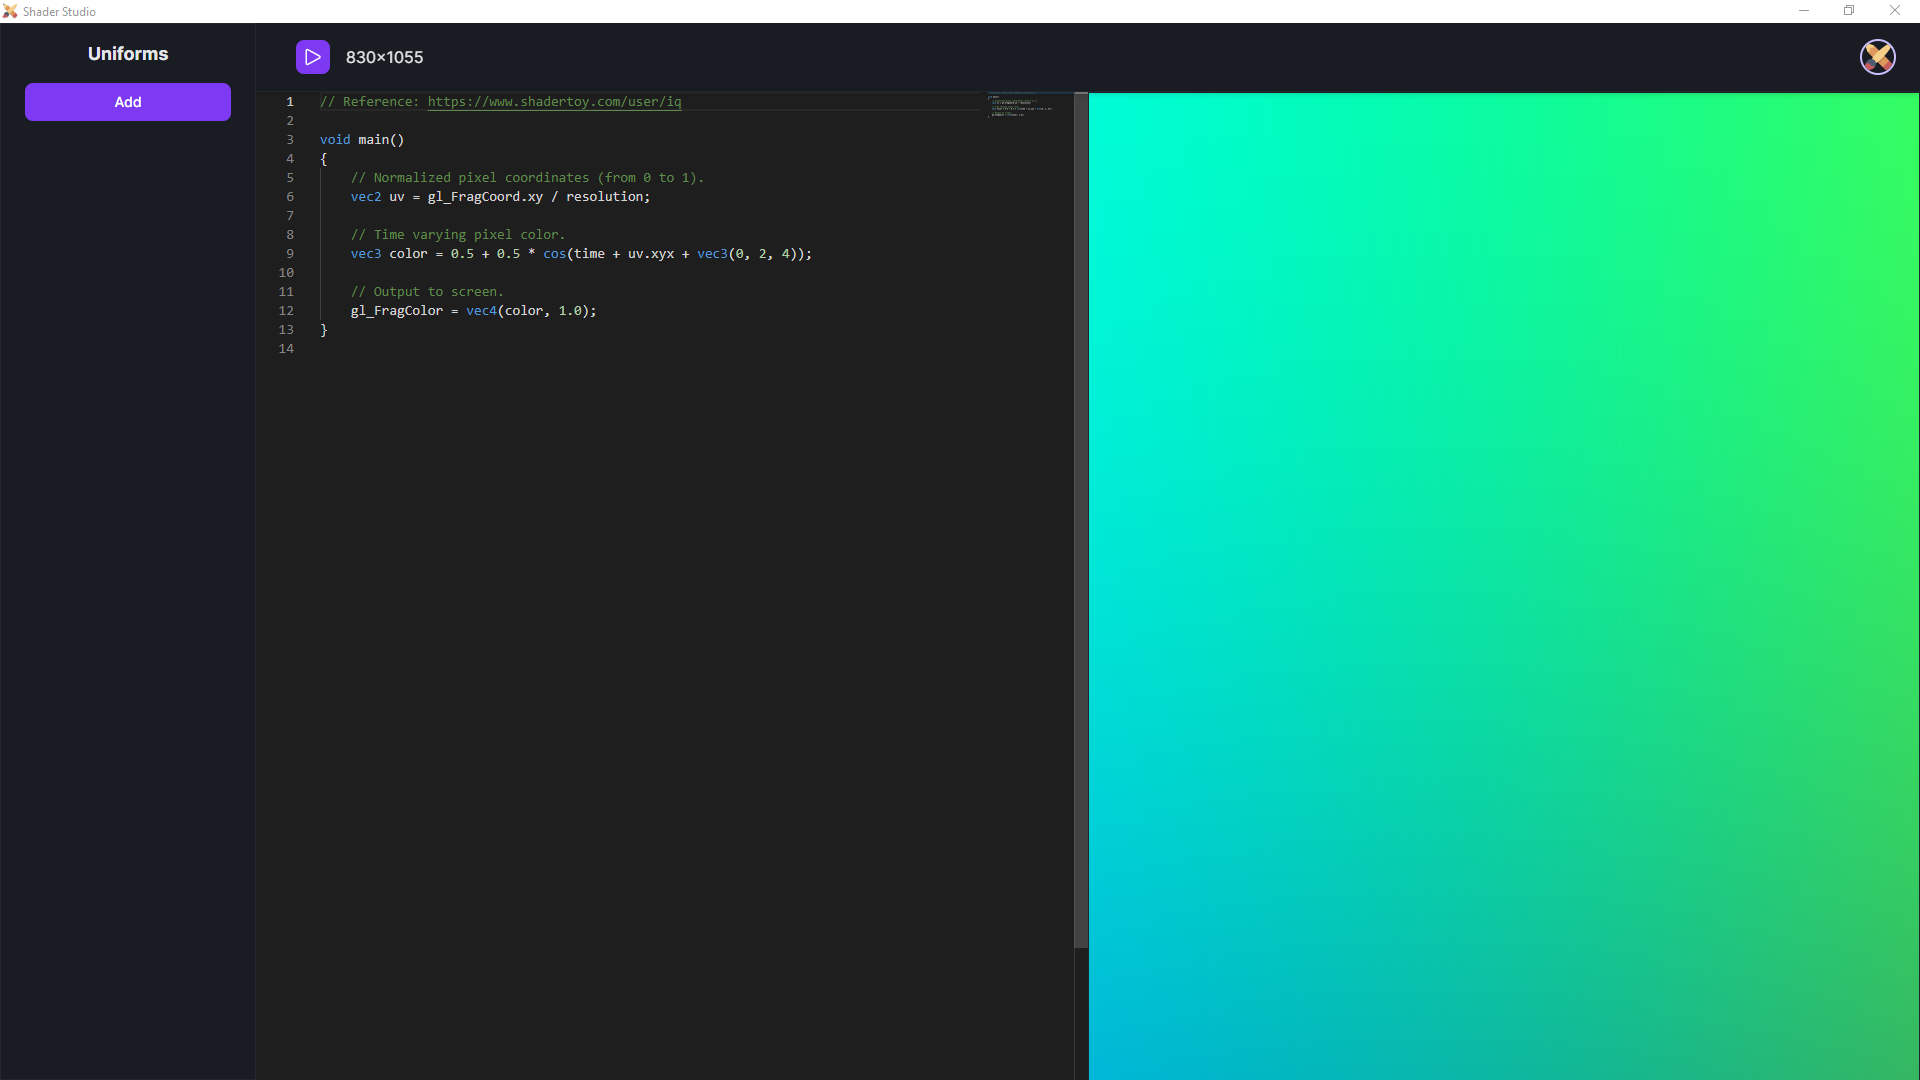
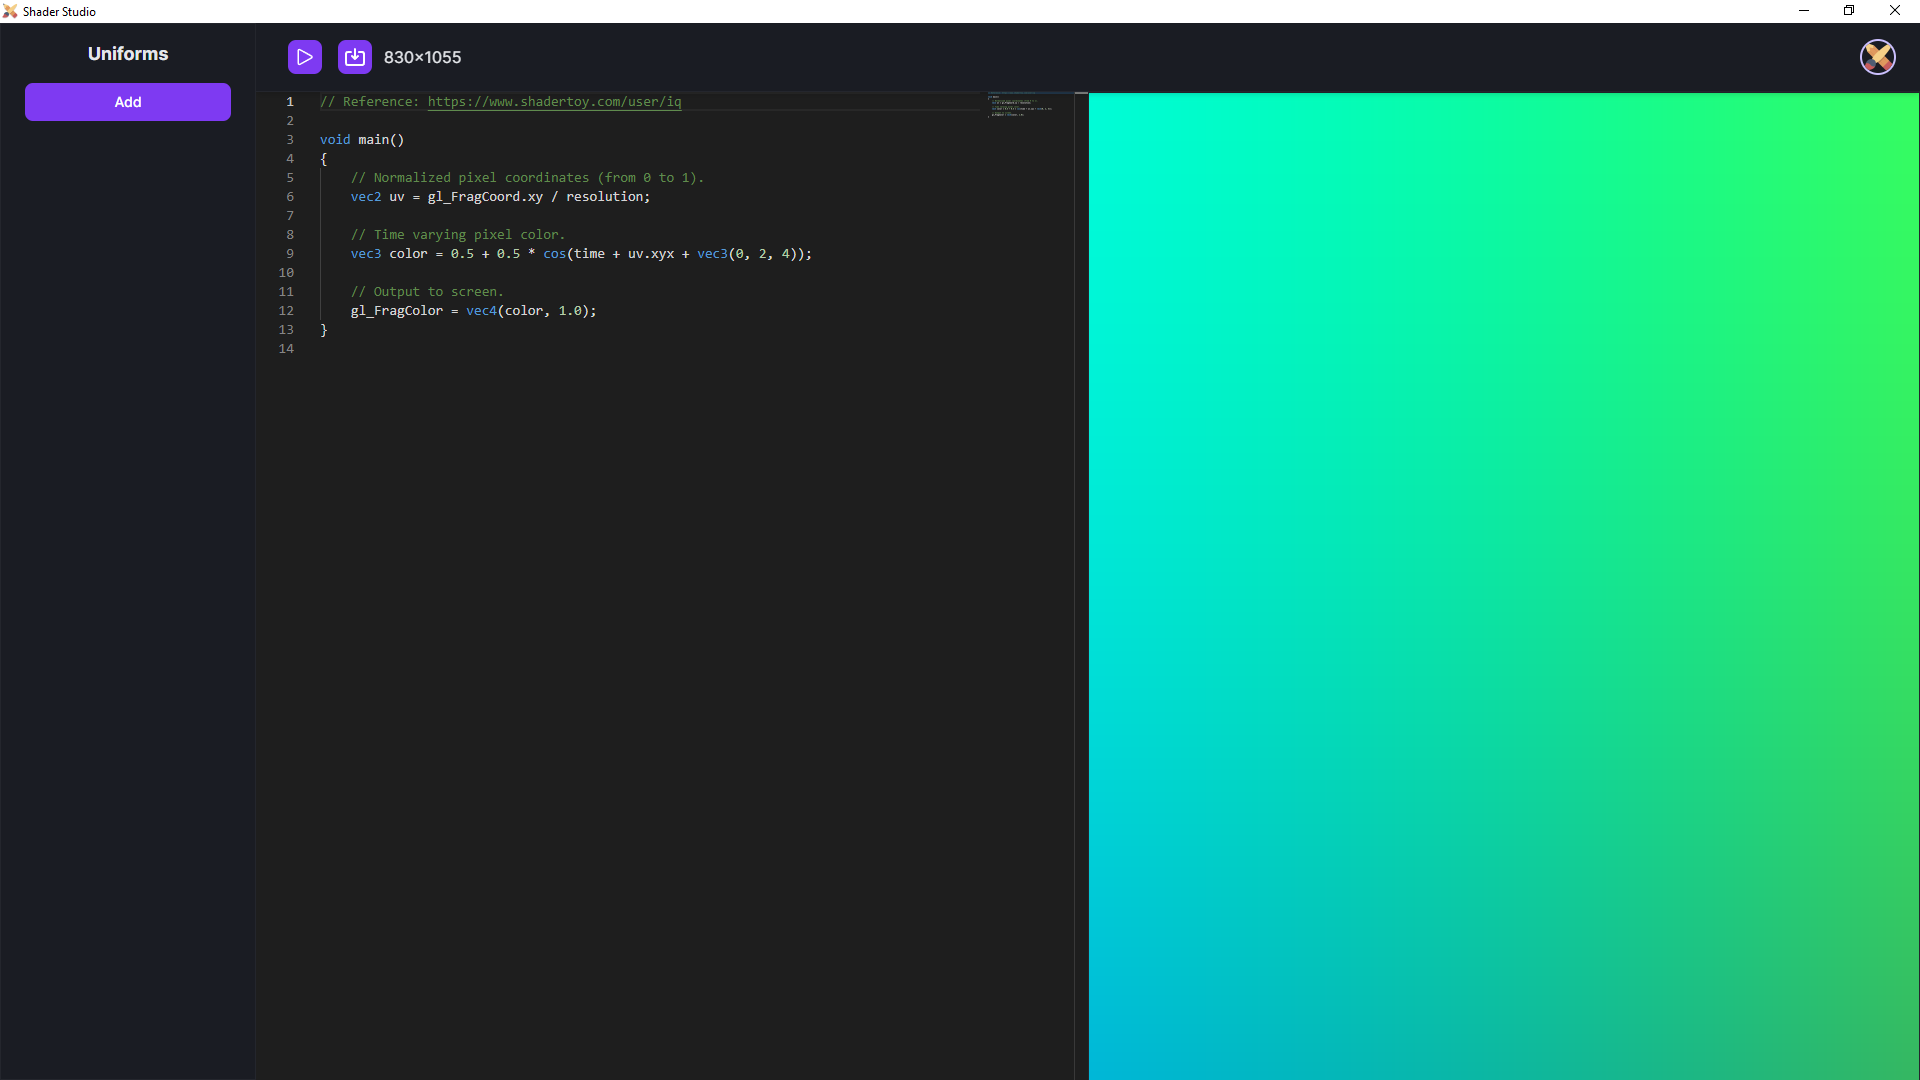
Minor changes

Changed region(s): [[0.5625, 0.0917, 0.5938, 0.8556], [0.125, 0.0306, 0.25, 0.0917]]

diff --git a/src/components/uniformModal.js b/src/components/uniformModal.js
@@ -10,7 +10,7 @@ const html = /*html*/
 `
 <div
     class="fixed inset-0 z-30 flex items-end bg-black bg-opacity-50 sm:items-center sm:justify-center"
-    x-show="opened"
+    x-show="visible"
     x-transition:enter="transition ease-out duration-150"
     x-transition:enter-start="opacity-0"
     x-transition:enter-end="opacity-100"
@@ -21,7 +21,7 @@ const html = /*html*/
     <div
         id="uniformWindow"
         class="absolute w-full px-6 py-4 overflow-hidden bg-gray-300 rounded-t-lg dark:bg-gray-800 sm:rounded-lg sm:m-4 sm:max-w-xl border-1 border-gray-100 dark:border-gray-700"
-        x-show="opened"
+        x-show="visible"
         x-transition:enter="transition ease-out duration-150"
         x-transition:enter-start="opacity-0"
         x-transition:enter-end="opacity-100"
@@ -186,7 +186,6 @@ export class UniformModal extends BaseElement
         this.state =
         {
             selectedItem: null,
-            opened: false,
             deleting: false,
             showDelete: this.showDelete.bind(this),
             confirmDelete: this.confirmDelete.bind(this),
@@ -311,6 +310,8 @@ export class UniformModal extends BaseElement
         });
 
         this.setState(this.state);
+
+        this.hide();
     }
 
     getSelectedItem()
@@ -329,6 +330,7 @@ export class UniformModal extends BaseElement
         }
 
         this.state.selectedItem = item;
+        this.state.selectedItem.select();
         let type = this.state.selectedItem.getType();
         let value = this.state.selectedItem.getValue();
 
@@ -470,12 +472,13 @@ export class UniformModal extends BaseElement
             }
         }
 
-        this.state.opened = true;
+        this.show();
     }
 
     close()
     {
-        this.state.opened = false;
+        this.hide();
+        this.state.selectedItem.deselect();
         this.state.selectedItem = null;
     }
 
@@ -504,7 +507,7 @@ export class UniformModal extends BaseElement
     confirmDelete()
     {
         window.uniformList.deleteUniformItem(this.state.selectedItem);
-        this.state.opened = false;
+        this.hide();
         this.state.deleting = false;
         this.state.selectedItem = null;
     }

diff --git a/src/components/addModal.js b/src/components/addModal.js
@@ -6,7 +6,7 @@ const html = /*html*/
 `
 <div
     class="fixed inset-0 z-30 flex items-end bg-black bg-opacity-50 sm:items-center sm:justify-center"
-    x-show="opened"
+    x-show="visible"
     x-transition:enter="transition ease-out duration-150"
     x-transition:enter-start="opacity-0"
     x-transition:enter-end="opacity-100"
@@ -16,7 +16,7 @@ const html = /*html*/
 
     <div
         class="w-full px-6 py-4 overflow-hidden bg-gray-300 rounded-t-lg dark:bg-gray-800 sm:rounded-lg sm:m-4 sm:max-w-xl border-1 border-gray-100 dark:border-gray-700"
-        x-show="opened"
+        x-show="visible"
         x-transition:enter="transition ease-out duration-150"
         x-transition:enter-start="opacity-0 transform translate-y-1/2"
         x-transition:enter-end="opacity-100"
@@ -98,7 +98,6 @@ export class AddModal extends BaseElement
 
         this.state =
         {
-            opened: false,
             accept: this.accept.bind(this),
             close: this.close.bind(this)
         };
@@ -114,6 +113,8 @@ export class AddModal extends BaseElement
         this.typeSelect = this.querySelector("#typeSelect");
 
         this.setState(this.state);
+
+        this.hide();
     }
 
     open()
@@ -121,12 +122,12 @@ export class AddModal extends BaseElement
         this.nameInput.value = "";
         this.typeSelect.selectedIndex = 0;
         this.invalidLabel.hide();
-        this.state.opened = true;
+        this.show();
     }
 
     close()
     {
-        this.state.opened = false;
+        this.hide();
     }
 
     accept()

diff --git a/src/components/aboutModal.js b/src/components/aboutModal.js
@@ -6,7 +6,7 @@ const html = /*html*/
 `
 <div
     class="fixed inset-0 z-30 flex items-end bg-black bg-opacity-50 sm:items-center sm:justify-center"
-    x-show="opened"
+    x-show="visible"
     x-transition:enter="transition ease-out duration-150"
     x-transition:enter-start="opacity-0"
     x-transition:enter-end="opacity-100"
@@ -16,7 +16,7 @@ const html = /*html*/
 
     <div
         class="w-full px-6 py-4 overflow-hidden bg-gray-300 rounded-t-lg dark:bg-gray-800 sm:rounded-lg sm:m-4 sm:max-w-xl border-1 border-gray-100 dark:border-gray-700"
-        x-show="opened"
+        x-show="visible"
         x-transition:enter="transition ease-out duration-150"
         x-transition:enter-start="opacity-0 transform translate-y-1/2"
         x-transition:enter-end="opacity-100"
@@ -198,7 +198,6 @@ export class AboutModal extends BaseElement
 
         this.state =
         {
-            opened: false,
             close: this.close.bind(this)
         };
     }
@@ -212,16 +211,18 @@ export class AboutModal extends BaseElement
         this.electronLabel = this.querySelector("#electronLabel");
 
         this.setState(this.state);
+
+        this.hide();
     }
 
     open()
     {
-        this.state.opened = true;
+        this.show();
     }
 
     close()
     {
-        this.state.opened = false;
+        this.hide();
     }
 
     updateVersions( versions )

diff --git a/src/components/helpModal.js b/src/components/helpModal.js
@@ -6,7 +6,7 @@ const html = /*html*/
 `
 <div
     class="fixed inset-0 z-30 flex items-end bg-black bg-opacity-50 sm:items-center sm:justify-center"
-    x-show="opened"
+    x-show="visible"
     x-transition:enter="transition ease-out duration-150"
     x-transition:enter-start="opacity-0"
     x-transition:enter-end="opacity-100"
@@ -16,7 +16,7 @@ const html = /*html*/
 
     <div
         class="w-full px-6 py-4 overflow-hidden bg-gray-300 rounded-t-lg dark:bg-gray-800 sm:rounded-lg sm:m-4 sm:max-w-xl border-1 border-gray-100 dark:border-gray-700"
-        x-show="opened"
+        x-show="visible"
         x-transition:enter="transition ease-out duration-150"
         x-transition:enter-start="opacity-0 transform translate-y-1/2"
         x-transition:enter-end="opacity-100"
@@ -132,7 +132,6 @@ export class HelpModal extends BaseElement
 
         this.state =
         {
-            opened: false,
             close: this.close.bind(this)
         };
     }
@@ -142,16 +141,18 @@ export class HelpModal extends BaseElement
         this.createElement(html);
 
         this.setState(this.state);
+
+        this.hide();
     }
 
     open()
     {
-        this.state.opened = true;
+        this.show();
     }
 
     close()
     {
-        this.state.opened = false;
+        this.hide();
     }
 }
 

diff --git a/src/components/baseElement.js b/src/components/baseElement.js
@@ -16,6 +16,16 @@ export class BaseElement extends HTMLElement
 
     setState( state )
     {
+        if( !state )
+        {
+            state = { };
+        }
+
+        // Add default show/hide functionality.
+        state.visible = true;
+        state.show = this.show.bind(this);
+        state.hide = this.hide.bind(this);
+
         if( !window.Alpine )
         {
             document.addEventListener("alpine:init", () =>
@@ -30,5 +40,15 @@ export class BaseElement extends HTMLElement
         this.state = window.Alpine.reactive(state);
 
         window.Alpine.addScopeToNode(this, this.state);
+    }
+
+    show()
+    {
+        this.state.visible = true;
+    }
+
+    hide()
+    {
+        this.state.visible = false;
     }
 }

diff --git a/src/utils/icons.js b/src/utils/icons.js
@@ -84,7 +84,13 @@ const colorIcon = /*html*/
         stroke-linecap="round"
         stroke-linejoin="round"
         stroke-width="2"
-        d="M11 5H6a2 2 0 00-2 2v11a2 2 0 002 2h11a2 2 0 002-2v-5m-1.414-9.414a2 2 0 112.828 2.828L11.828 15H9v-2.828l8.586-8.586z">
+        d="M17.657 18.657A8 8 0 016.343 7.343S7 9 9 10c0-2 .5-5 2.986-7C14 5 16.09 5.777 17.656 7.343A7.975 7.975 0 0120 13a7.975 7.975 0 01-2.343 5.657z">
+    </path>
+    <path
+        stroke-linecap="round"
+        stroke-linejoin="round"
+        stroke-width="2"
+        d="M9.879 16.121A3 3 0 1012.015 11L11 14H9c0 .768.293 1.536.879 2.121z">
     </path>
 </svg>
 `;

diff --git a/src/components/errorView.js b/src/components/errorView.js
@@ -26,12 +26,7 @@ export class ErrorView extends BaseElement
     {
         super();
 
-        this.state =
-        {
-            visible: false,
-            show: this.show.bind(this),
-            hide: this.hide.bind(this)
-        };
+        this.state = { };
     }
 
     connectedCallback()
@@ -41,16 +36,6 @@ export class ErrorView extends BaseElement
         this.textarea = this.querySelector("textarea");
 
         this.setState(this.state);
-    }
-
-    show()
-    {
-        this.state.visible = true;
-    }
-
-    hide()
-    {
-        this.state.visible = false;
     }
 
     setText( text )

diff --git a/src/components/renderView.js b/src/components/renderView.js
@@ -36,12 +36,7 @@ export class RenderView extends BaseElement
     {
         super();
 
-        this.state =
-        {
-            visible: true,
-            show: this.show.bind(this),
-            hide: this.hide.bind(this)
-        };
+        this.state = { };
     }
 
     connectedCallback()
@@ -58,16 +53,6 @@ export class RenderView extends BaseElement
         });
 
         this.setState(this.state);
-    }
-
-    show()
-    {
-        this.state.visible = true;
-    }
-
-    hide()
-    {
-        this.state.visible = false;
     }
 
     getShader()

diff --git a/src/main.js b/src/main.js
@@ -1,7 +1,7 @@
 const { app, BrowserWindow, Menu } = require("electron");
 const path = require("path");
 
-//Menu.setApplicationMenu(false);
+Menu.setApplicationMenu(false);
 
 const createWindow = () =>
 {
@@ -9,7 +9,7 @@ const createWindow = () =>
     {
         width: 1280,
         height: 720,
-        //autoHideMenuBar: true,
+        autoHideMenuBar: true,
         icon: path.join(__dirname, "..", "assets", "favicon", "favicon.ico"),
         webPreferences:
         {

diff --git a/src/components/matrixInput.js b/src/components/matrixInput.js
@@ -154,9 +154,7 @@ export class MatrixInput extends BaseElement
     {
         super();
 
-        this.state =
-        {
-        };
+        this.state = { };
     }
 
     connectedCallback()

diff --git a/src/components/genericLabel.js b/src/components/genericLabel.js
@@ -19,9 +19,7 @@ export class GenericLabel extends BaseElement
     {
         super();
 
-        this.state =
-        {
-        };
+        this.state = { };
     }
 
     connectedCallback()

diff --git a/src/components/webcamInput.js b/src/components/webcamInput.js
@@ -73,9 +73,7 @@ export class WebcamInput extends BaseElement
     {
         super();
 
-        this.state =
-        {
-        };
+        this.state = { };
     }
 
     connectedCallback()
